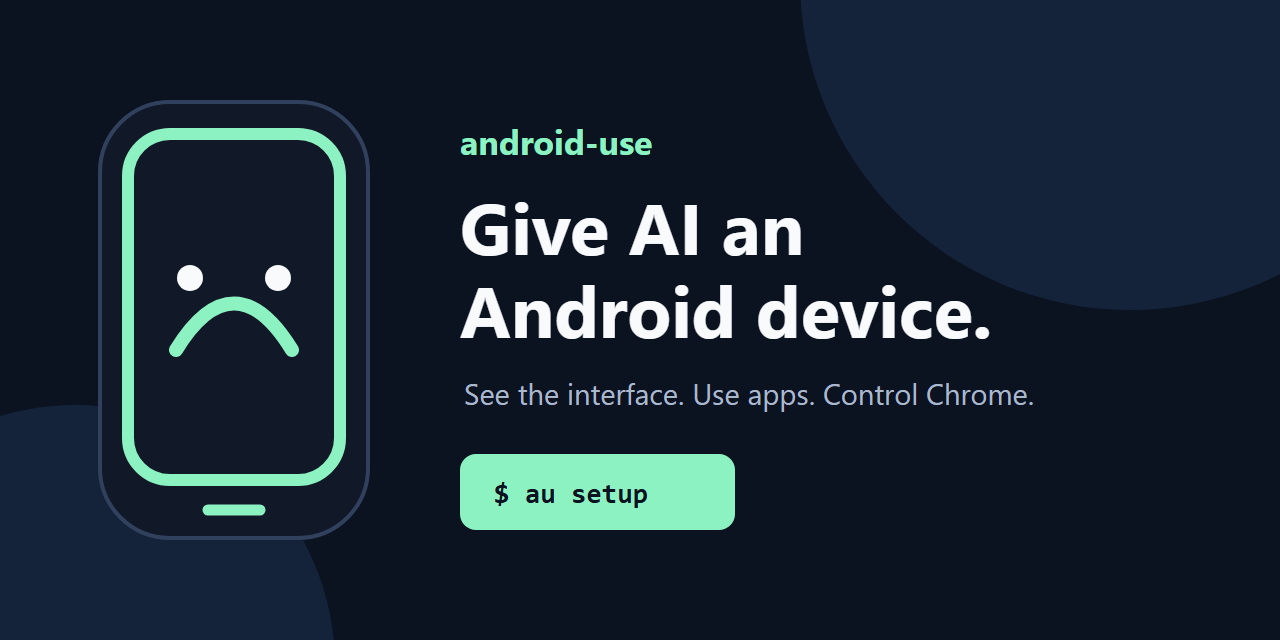
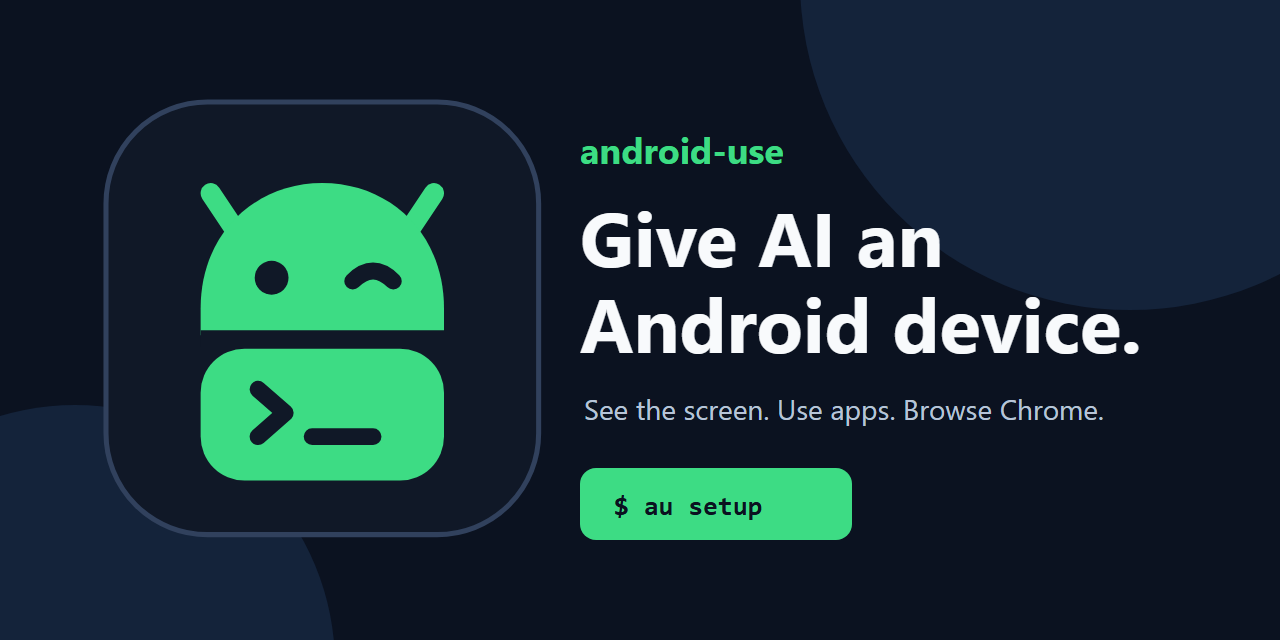
Refine Android Use identity and setup

Changed region(s): [[0.0625, 0.1562, 0.9062, 0.8438]]

diff --git a/computer/src/install.rs b/computer/src/install.rs
@@ -19,7 +19,7 @@ pub fn devices() -> Result<Value> {
     let devices = adb.devices_all()?.into_iter().map(|d| json!({"endpoint":d.endpoint,"state":d.state})).collect::<Vec<_>>();
     Ok(json!({"ok":1,"devices":devices}))
 }
-pub fn setup(apk: Option<&Path>) -> Result<Value> {
+pub fn setup(apk: Option<&Path>, wait_for_approval: bool) -> Result<Value> {
     let paths = Paths::discover()?;
     let adb = Adb::discover()?;
     let (device, enrolled_now) = adb.resolve_or_enroll(&paths)?;
@@ -30,9 +30,17 @@ pub fn setup(apk: Option<&Path>) -> Result<Value> {
     adb.install(&device, &apk)?;
     adb.start_helper(&device)?;
     let installed = adb.package_installed(&device, "dev.codex.aubridge")?;
-    let accessibility = adb.accessibility_enabled(&device).unwrap_or(false);
+    let mut accessibility = adb.accessibility_enabled(&device).unwrap_or(false);
+    let mut settings_opened = false;
+    if !accessibility {
+        adb.open_accessibility_settings(&device)?;
+        settings_opened = true;
+        if wait_for_approval {
+            accessibility = adb.wait_for_accessibility(&device, std::time::Duration::from_secs(60))?;
+        }
+    }
     Ok(
-        json!({"ok":1,"installed":installed as u8,"enrolled":enrolled_now as u8,"device":device.hardware,"accessibility":accessibility as u8,"ready":(installed&&accessibility) as u8,"next":(!accessibility).then_some("On Android, open Settings → Accessibility → Android Use → turn it on") }),
+        json!({"ok":1,"installed":installed as u8,"enrolled":enrolled_now as u8,"device":device.hardware,"accessibility":accessibility as u8,"settings_opened":settings_opened as u8,"ready":(installed&&accessibility) as u8,"next":(!accessibility).then_some("Android Use opened Accessibility settings on your device. Tap Android Use, turn it on, then run au setup again.") }),
     )
 }
 pub fn doctor() -> Result<Value> {
@@ -89,8 +97,8 @@ pub fn doctor() -> Result<Value> {
     let ready_all = enrolled && device.is_some() && helper && accessibility;
     Ok(json!({"ok":1,"ready":ready_all as u8,"checks":checks,"journal_bytes":journal_bytes}))
 }
-pub fn update(apk: Option<&Path>) -> Result<Value> {
-    let mut value = setup(apk)?;
+pub fn update(apk: Option<&Path>, wait_for_approval: bool) -> Result<Value> {
+    let mut value = setup(apk, wait_for_approval)?;
     value["updated"] = json!(1);
     Ok(value)
 }

diff --git a/computer/src/main.rs b/computer/src/main.rs
@@ -12,7 +12,7 @@ use std::{env, io::IsTerminal, path::Path};
 fn main() {
     let human = env::args().any(|arg| arg == "--human") || (!env::args().any(|arg| arg == "--json") && std::io::stdout().is_terminal());
     let command = env::args().skip(1).find(|arg| arg != "--json" && arg != "--human").unwrap_or_else(|| "help".into());
-    match run() {
+    match run(human) {
         Ok(value) => {
             if human {
                 println!("{}", human_value(&command, &value));
@@ -30,7 +30,7 @@ fn main() {
         }
     }
 }
-fn run() -> Result<Value> {
+fn run(human: bool) -> Result<Value> {
     let a: Vec<String> = env::args().skip(1).filter(|arg| arg != "--json" && arg != "--human").collect();
     let out = match a.first().map(String::as_str).unwrap_or("help") {
         "serve" => {
@@ -82,8 +82,8 @@ fn run() -> Result<Value> {
             adapter::one_read(&mut Engine::open()?, "artifact", None, 0, Some(id), range)?
         }
         "enroll" => install::enroll(a.get(1).ok_or_else(|| Error::new(Code::Args, "enroll requires an ADB endpoint"))?)?,
-        "setup" | "repair" => install::setup(a.get(1).map(Path::new))?,
-        "update" => install::update(a.get(1).map(Path::new))?,
+        "setup" | "repair" => install::setup(a.get(1).map(Path::new), human)?,
+        "update" => install::update(a.get(1).map(Path::new), human)?,
         "doctor" => install::doctor()?,
         "uninstall" => install::uninstall()?,
         "version" | "--version" => serde_json::json!({"version":env!("CARGO_PKG_VERSION")}),
@@ -138,6 +138,9 @@ fn human_value(command: &str, value: &Value) -> String {
                 out.push_str("\n✓ Accessibility enabled");
             } else {
                 out.push_str("\n! Accessibility still needs your approval");
+            }
+            if value.get("settings_opened").and_then(Value::as_u64) == Some(1) && !ready {
+                out.push_str("\n✓ Opened the right Android settings screen");
             }
             if let Some(next) = value.get("next").and_then(Value::as_str) {
                 out.push_str("\n\nAction needed:\n");

diff --git a/computer/src/device.rs b/computer/src/device.rs
@@ -181,6 +181,20 @@ impl Adb {
     pub fn accessibility_enabled(&self, d: &Device) -> Result<bool> {
         self.secure_setting_contains(d, "enabled_accessibility_services", "dev.codex.aubridge")
     }
+    pub fn open_accessibility_settings(&self, d: &Device) -> Result<()> {
+        self.run(Some(&d.endpoint), &["shell", "am", "start", "-a", "android.settings.ACCESSIBILITY_SETTINGS"], Duration::from_secs(8))?;
+        Ok(())
+    }
+    pub fn wait_for_accessibility(&self, d: &Device, timeout: Duration) -> Result<bool> {
+        let started = Instant::now();
+        while started.elapsed() < timeout {
+            if self.accessibility_enabled(d).unwrap_or(false) {
+                return Ok(true);
+            }
+            thread::sleep(Duration::from_millis(500));
+        }
+        Ok(false)
+    }
     pub fn notifications_enabled(&self, d: &Device) -> Result<bool> {
         self.secure_setting_contains(d, "enabled_notification_listeners", "dev.codex.aubridge")
     }

diff --git a/README.md b/README.md
@@ -2,7 +2,7 @@
 
 <h1 align="center">android-use</h1>
 <p align="center"><strong>Give AI an Android device.</strong></p>
-<p align="center">Connect a phone or tablet. Let your agent see the interface, use apps, control Chrome, and work with supported device capabilities through one small, local interface.</p>
+<p align="center">Plug in a phone or tablet. Your AI can see the screen, tap, type, open apps, and use Chrome on the real device.</p>
 
 <p align="center">
   <a href="docs/getting-started.md"><strong>Get started</strong></a> ·
@@ -18,69 +18,59 @@
   <a href="https://github.com/austinintelligence/android-use/releases"><img alt="GitHub release" src="https://img.shields.io/github/v/release/austinintelligence/android-use?include_prereleases"></a>
 </p>
 
-## Android, in the agent's toolbelt
+## Your AI can use a real Android device
 
-Ask an agent to open an app, find a setting, enter text, read a page, or inspect device state. Android Use turns the visible interface into a compact semantic view, then accepts short generation-checked action plans. Screenshots and media stay behind private artifact handles instead of flooding the model context.
+Android Use connects the AI agent on your computer to the Android device in your hand. Ask normally:
+
+- “Open Settings and check the battery.”
+- “Search for Yellowstone in Chrome and show me what you find.”
+- “Open this app and go to the account screen.”
+- “Tell me which Wi-Fi network is connected.”
+
+The agent reads the same labels and controls you see, then taps, types, scrolls, and checks its work.
 
 <img src="images/demos/yellowstone-browser.png" alt="A real Android Chrome page captured after Android Use navigated to Yellowstone National Park" width="100%">
 
-> **Real device demo:** Android Use selected a live Chrome tab over USB, navigated to the National Park Service, waited for “Yellowstone,” and returned this screenshot as a private artifact.
+> **Real device, real result.** Android Use opened this National Park Service page in Chrome on a connected Android tablet and confirmed that Yellowstone loaded.
 
 ```text
 You: Open Chrome, find Yellowstone, and show me the page.
 
-Agent: ✓ Selected Chrome  ✓ Navigated  ✓ Verified “Yellowstone”
-       Screenshot saved as a private artifact
+Agent: Opened Chrome, loaded Yellowstone, and confirmed the page.
 ```
 
-## What it can do
+## What it lets an agent do
 
 | | Capability | What that means |
 | --- | --- | --- |
-| 👁 | **Understand the screen** | Read labels, controls, roles, and interaction references without processing a full screenshot every step. |
-| 👆 | **Use Android apps** | Tap, type, scroll, press system keys, perform gestures, launch apps, wait, and verify. |
-| 🌐 | **Control Chrome** | Inspect tabs and page structure, navigate, click, focus, type, scroll, reload, and capture a page. |
-| 📱 | **Inspect the device** | Read readiness, supported capabilities, location, and notifications where Android permission is enabled. |
-| 📷 | **Capture when asked** | Create bounded screenshots, camera images, microphone clips, and screen recordings when the device grants the required permission. |
-| 🔌 | **Connect your agent** | Use two MCP tools—`android.read` and `android.act`—or the equivalent typed JSONL stream. |
+| 👁 | **See what is on screen** | Understand visible text, buttons, fields, lists, and menus. |
+| 👆 | **Use your apps** | Tap, type, scroll, go back, return home, and open apps. |
+| 🌐 | **Browse with Chrome** | Open pages, follow links, fill fields, read results, and take page screenshots. |
+| 📱 | **Check the device** | Read supported device information, location, and notifications when you allow it. |
+| 📷 | **Capture when you ask** | Take screenshots or use supported camera, microphone, and screen recording with Android's permission. |
+| 🔌 | **Work with your agent** | Connect Codex, Claude Code, Cursor, or another MCP-compatible agent. |
 
 [See the verified capability details →](docs/capabilities.md)
 
-## Start in three steps
+## Setup is one guided command
 
-You need Android 8 or newer, a data-capable USB cable, and Windows, macOS, or Linux. Enable **Developer options → USB debugging** on Android first.
+You need Android 8 or newer, a data-capable USB cable, and Windows, macOS, or Linux.
 
-1. Download the release archive for your computer and extract it.
-2. Connect and unlock one Android device. Approve the **Allow USB debugging?** prompt.
-3. Run:
+1. Download the package for your computer from [Releases](https://github.com/austinintelligence/android-use/releases) and unzip it.
+2. Connect and unlock your Android device.
+3. Run one command:
 
 ```console
 au setup
 ```
 
-Android Use installs its helper and opens the one Android setting it cannot approve for you:
-
-```text
-Settings → Accessibility → Android Use → On
-```
-
-Then confirm:
-
-```console
-au status
-```
+Android Use checks the cable, remembers the device, installs its small helper, and opens the right Android permission screen. Approve the prompts on the device and leave the command running. It finishes when everything is ready.
 
 ```text
 Android Use is ready
-
-✓ Android helper connected
-✓ UI generation 402
-✓ Capability mask 7
 ```
 
-The release archive includes `au`, the Android helper, and the required Android platform tool. No Rust, Java, Gradle, or Android Studio is needed.
-
-> Packages are published per platform. If your platform is not listed on the latest release, build from source; do not install an archive for a different operating system.
+> **Current availability:** v3 packages have not been published yet. The setup above is the finished release flow; developers can use [the source build](docs/development.md) today. The README will not pretend an unpublished npm package exists.
 
 [Full human quickstart →](docs/getting-started.md) · [Troubleshooting →](docs/troubleshooting.md)
 
@@ -92,10 +82,10 @@ If your client supports MCP, configure it to run:
 au serve --mcp
 ```
 
-The agent receives two tools:
+The agent receives two focused tools:
 
-- `android.read` observes Android, Chrome, capabilities, notifications, location, visuals, and private artifacts.
-- `android.act` runs a short bounded plan against the generation the agent just observed.
+- `android.read` sees what is happening.
+- `android.act` performs the next small action.
 
 Coding agents can start with [AGENTS.md](AGENTS.md). It contains the whole operating loop and recovery rules in one page. For Codex, Claude Code, Cursor, and similar clients, see the [Agent Quickstart](docs/agents/quickstart.md).
 
@@ -103,7 +93,7 @@ Coding agents can start with [AGENTS.md](AGENTS.md). It contains the whole opera
 
 <img src="images/how-it-works.svg" alt="Agent to Android Use to Android device workflow" width="100%">
 
-Normal control stays between your computer and the enrolled device. The helper has no Android internet permission. Its local socket is reachable only through an Android Debug Bridge forward created for the selected device, and every session is authenticated. [Read the security model →](SECURITY.md)
+Normal control stays between your computer and the connected device. Android still owns every sensitive permission prompt, and the helper cannot use the internet on its own. [Read the security model →](SECURITY.md)
 
 ## Choose your path
 

diff --git a/docs/getting-started.md b/docs/getting-started.md
@@ -1,79 +1,83 @@
-# Human Quickstart
+# Get Android Use ready
 
-This takes one Android device from “plugged in” to “ready for an AI agent.”
+The goal is simple: connect one Android device, approve two Android prompts, and let `au setup` handle the rest.
 
-## Before you start
+## What you need
 
-You need:
+- A phone or tablet running Android 8 or newer.
+- A USB cable that carries data.
+- A Windows, macOS, or Linux computer.
+- Permission to change developer and accessibility settings on the Android device.
 
-- Android 8 or newer.
-- A Windows, macOS, or Linux computer with a release package available.
-- A USB cable that carries data, not only power.
-- Permission to enable Developer options, USB debugging, and the Android Use accessibility service.
+> Android Use v3 packages are not published yet. This page describes the finished package flow. If you are working from the current repository, [build it from source](development.md) first.
 
-On Android, open **Settings → About phone** and tap **Build number** seven times. Then open **System → Developer options** and turn on **USB debugging**. Names vary slightly by device maker.
+## 1. Turn on USB debugging
 
-## 1. Connect the device
+This is the only setting Android Use cannot open before the computer is trusted.
 
-Unlock Android, connect the cable, and approve **Allow USB debugging?**. Select “Always allow” only if you trust this computer.
+On Android:
 
-```console
-au devices
-```
+1. Open **Settings → About phone**.
+2. Tap **Build number** seven times.
+3. Go back and open **Developer options**.
+4. Turn on **USB debugging**.
 
-You should see one ready endpoint. If not, run `au doctor`.
+The wording can vary slightly on Samsung, Pixel, and other devices. Search Settings for “Build number” or “USB debugging” if needed.
 
-## 2. Let Android Use finish setup
+## 2. Plug in and approve
 
-Keep the device unlocked:
+Connect the unlocked device. When Android asks **Allow USB debugging?**, tap **Allow**.
+
+Only choose **Always allow from this computer** when it is your computer.
+
+## 3. Run setup
+
+From the unzipped Android Use package:
 
 ```console
 au setup
 ```
 
-The command remembers the physical device, installs the Android Use helper, and starts it. Android Use cannot approve accessibility on your behalf. When prompted, open:
+Keep the device unlocked. Setup will:
+
+- find and remember the connected device;
+- install the Android Use helper;
+- open the correct Accessibility screen;
+- wait while you turn on **Android Use**;
+- confirm when the device is ready.
+
+You should finish on:
 
 ```text
-Settings → Accessibility → Android Use → On
+Android Use is ready
 ```
 
-Return to the terminal and run:
+That is it. You do not need to run a separate status or doctor command when setup succeeds.
 
-```console
-au status
-```
+## Connect your AI agent
 
-## 3. Read the screen
-
-```console
-au observe
-```
-
-This returns a compact semantic frontier: a generation number plus visible labels, roles, and integer references. Machine-readable JSON is the default when output is redirected; add `--human` for friendly terminal output or `--json` to force JSON.
-
-## 4. Connect your agent
-
-Use MCP when the client supports it:
+Use Android Use as a local MCP server:
 
 ```console
 au serve --mcp
 ```
 
-Otherwise use one typed request per line:
+Then ask your agent:
 
-```console
-au serve --jsonl
+```text
+Check the connected Android device and tell me what is on screen. Do not change anything yet.
 ```
 
-Continue with the [Agent Quickstart](agents/quickstart.md) or [examples](../examples/README.md).
+See the [Agent Quickstart](agents/quickstart.md) for client setup.
 
-## Optional permissions
+## If setup stops
 
-Camera, microphone, notifications, location, screenshots, and screen recording are not required for normal UI control. Android owns their permission screens. Check current support with:
+Run:
 
 ```console
-au capabilities
 au doctor
 ```
 
-Enable only what your task needs.
+It tells you what is missing in plain language. The most common causes are a charge-only cable, a locked device, a USB debugging prompt waiting on Android, or Accessibility not yet approved.
+
+Camera, microphone, notifications, location, and screen recording are optional. Normal app control does not require them.

diff --git a/install/README.md b/install/README.md
@@ -1,6 +1,6 @@
 # Android Use installer
 
-This small npm package is only a friendly launcher. It selects the bundled platform binary, verifies the bundled binary and helper APK when the release manifest is present, and lets the Rust-owned lifecycle do the real device work.
+This package gives people one setup command. It selects and verifies the files for their computer, then opens the Android screens that still need the owner's approval.
 
 Normal commands:
 
@@ -12,4 +12,4 @@ npx android-use update
 npx android-use uninstall
 ```
 
-Platform bundles place the signed `au` binary and `aubridge.apk` under `bin/PLATFORM-ARCH/`. `AU_BIN` is available for a trusted local development binary. The launcher never modifies `PATH`, downloads an archive, or creates a second installer state machine.
+`npx android-use setup` is reserved for the published package and must not be documented as available until npm publication succeeds. Developers can set `AU_BIN` to a trusted local build.

diff --git a/docs/troubleshooting.md b/docs/troubleshooting.md
@@ -20,9 +20,9 @@ It separates required checks from optional capabilities and tells you the next A
 
 Disconnect extras or explicitly run `au enroll ENDPOINT`. A server session remains fixed to the enrolled hardware identity.
 
-## Helper installed, but not ready
+## Setup opened Accessibility but did not finish
 
-Open **Settings → Accessibility → Android Use → On**. Android may move this setting under **Installed apps** or **Downloaded apps**.
+On the Android screen that setup opened, tap **Android Use**, turn it on, and approve Android's warning. If your device moved the page, look under **Installed apps** or **Downloaded apps**, then run `au setup` once more.
 
 ## Chrome is unavailable
 
